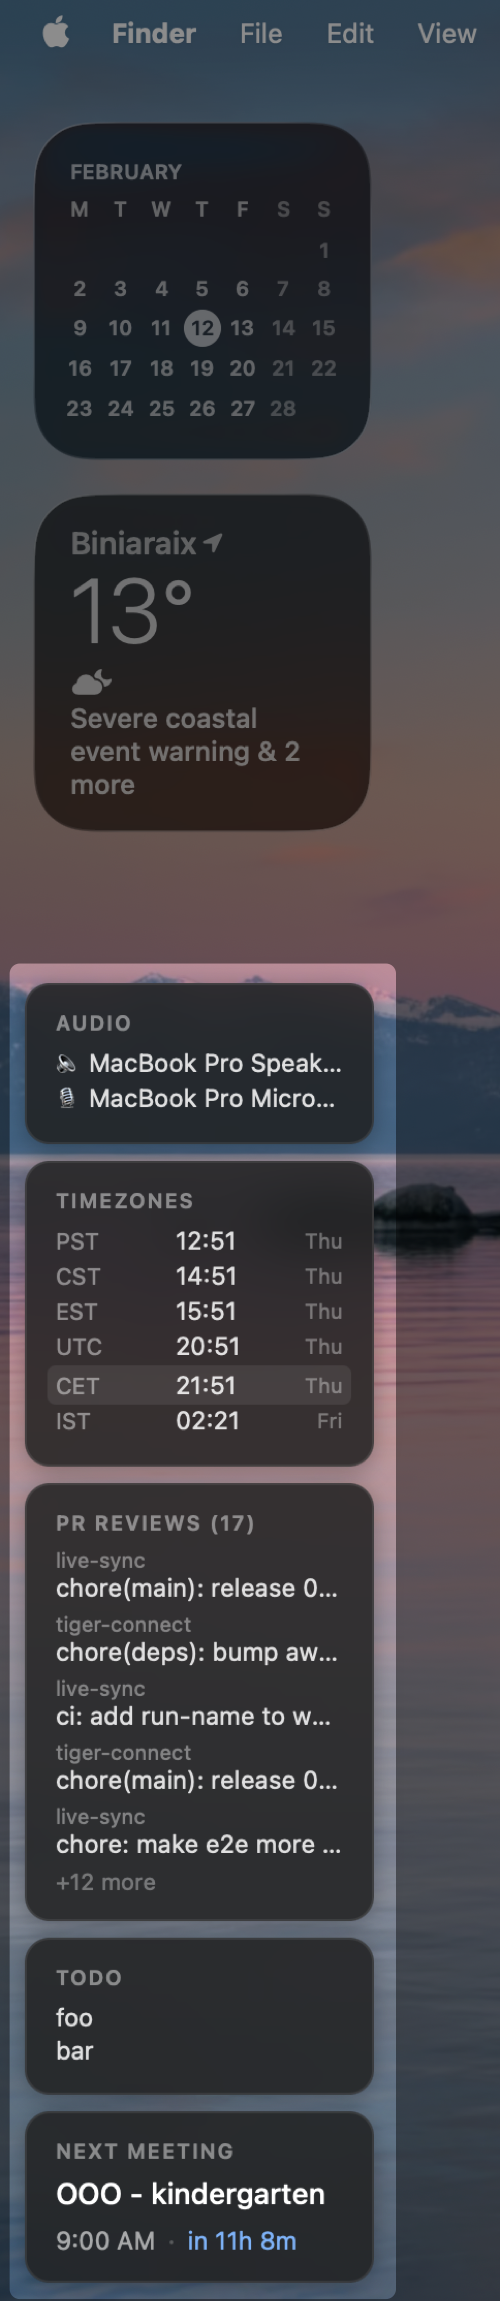
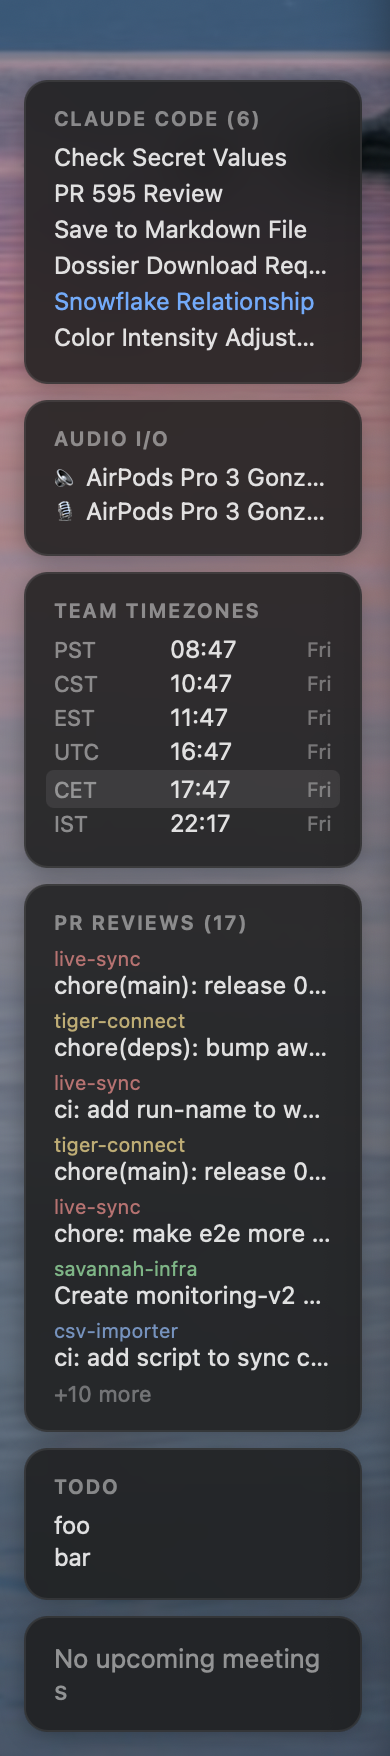
Update README and screenshot
Add Claude Code widget docs, update Audio I/O and GitHub PRs
descriptions, add Ghostty dependency, refresh screenshot.

diff --git a/README.md b/README.md
@@ -9,15 +9,17 @@
 | Widget | File | Description |
 |--------|------|-------------|
 | Stack | `stack.jsx` | Container that vertically stacks all widgets into a single card column, runs their commands, and provides shared styles |
-| Audio | `widgets/audio.jsx` | Shows current audio input and output devices |
+| Claude Code | `widgets/claude-sessions.jsx` | Lists active Claude Code sessions in Ghostty; click to switch tab |
+| Audio I/O | `widgets/audio.jsx` | Shows current audio input and output devices; click label to open System Settings > Sound |
 | Timezones | `widgets/timezones.jsx` | Shows current time in PST, CST, EST, UTC, CET, and IST |
-| GitHub PRs | `widgets/github-prs.jsx` | Shows PRs awaiting your review via `gh` CLI |
+| GitHub PRs | `widgets/github-prs.jsx` | Shows PRs awaiting your review via `gh` CLI with color-coded repo names |
 | TODO | `widgets/todo.jsx` | Displays contents of `~/TODO.txt` |
 | Next Meeting | `widgets/next-meeting.jsx` | Shows the next upcoming Google Calendar event with start time and countdown |
 
 ## Dependencies
 
 - [Übersicht](https://tracesof.net/uebersicht/) — `brew install --cask ubersicht`
+- [Ghostty](https://ghostty.org/) — terminal emulator, used by the Claude Code widget. `brew install --cask ghostty`
 - [gog](https://github.com/steipete/gogcli) — Google Calendar CLI, used by the next-meeting widget. `brew install steipete/tap/gogcli`, then `gog auth login` to authenticate.
 
 ## How it works
